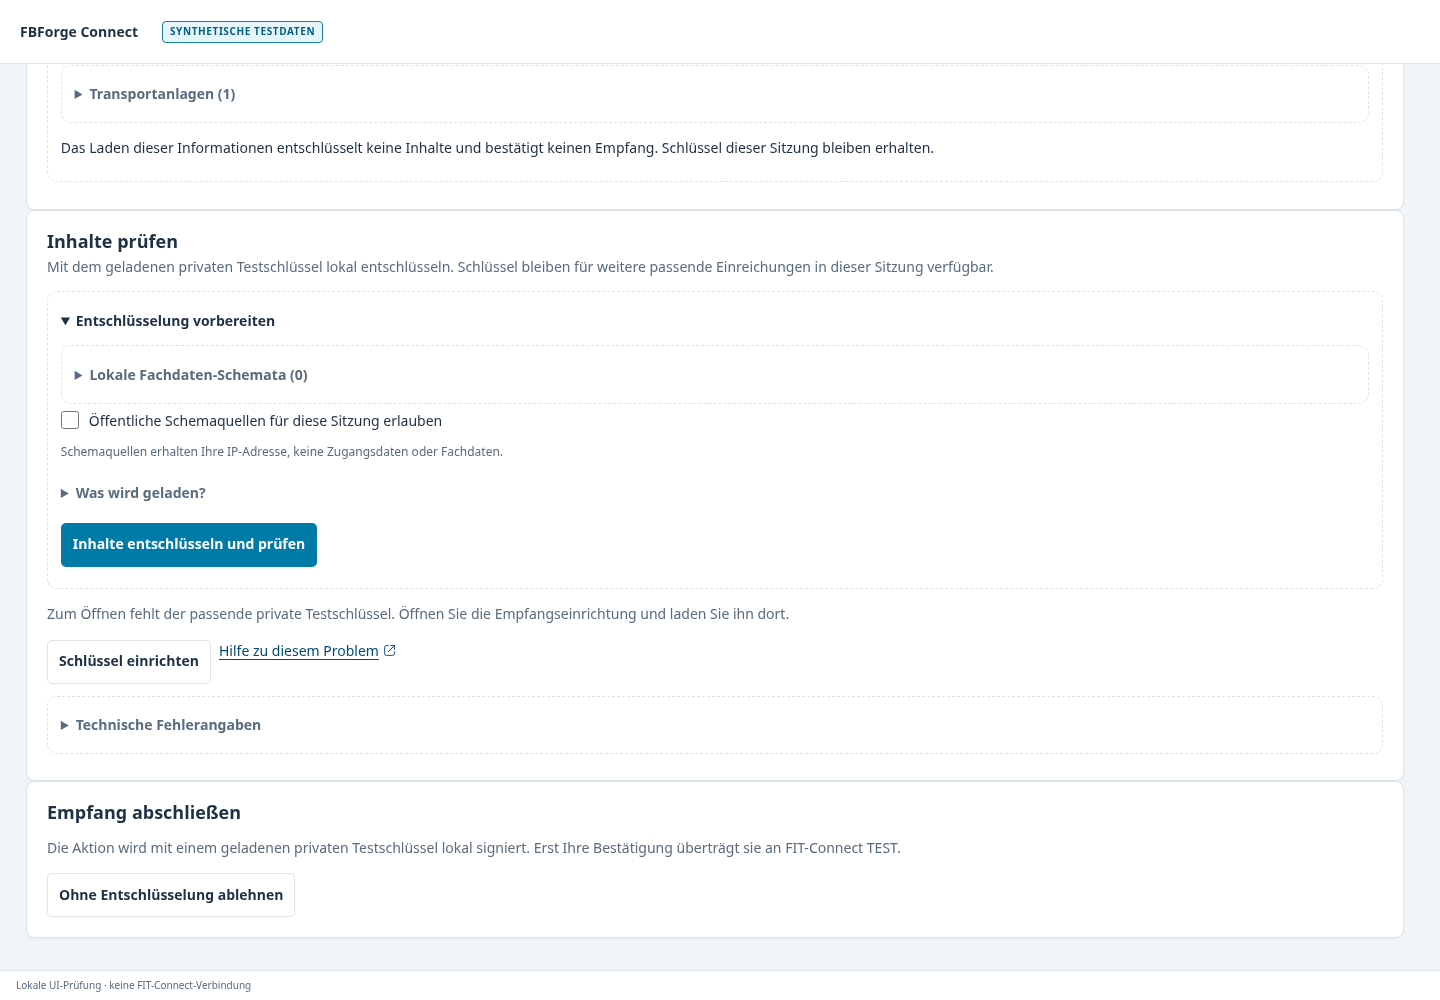
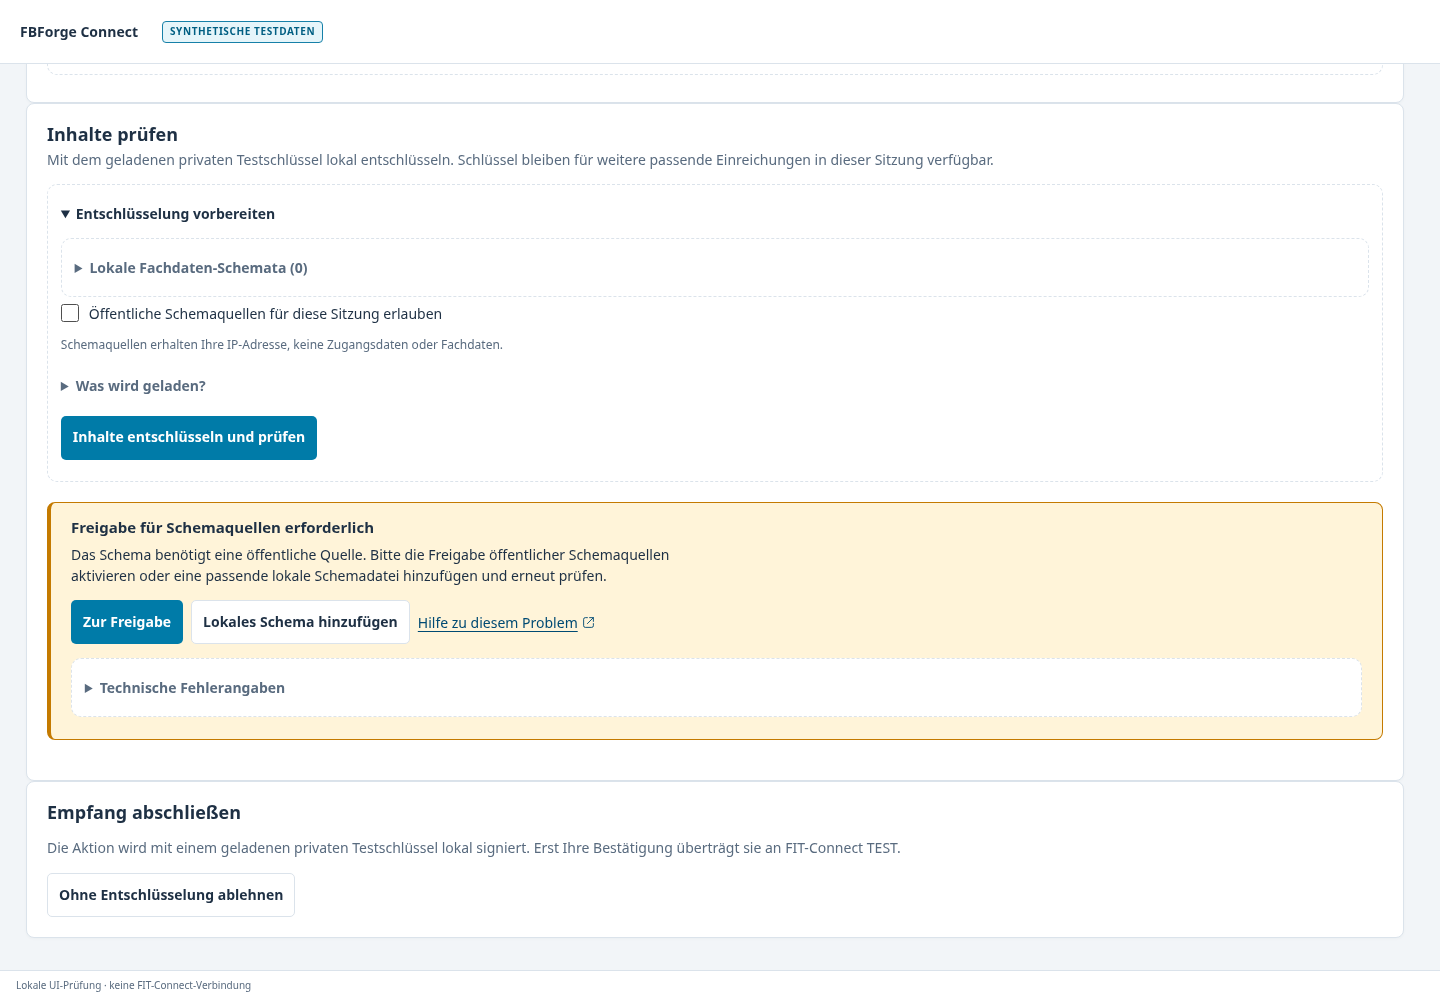
chore: prepare 0.2.0

Changed region(s): [[0.0312, 0.31, 0.9688, 0.744], [0.0312, 0.093, 0.6875, 0.279]]

diff --git a/docs/guide/topics.js b/docs/guide/topics.js
@@ -27,6 +27,13 @@ export const helpTopics = [
     image: 'profiles',
     caption:
       'Verbindungsdialog für den TEST-Zugang und die optionale Profilspeicherung. Zugangsdaten werden in der Anleitung nicht gezeigt.',
+    illustrations: [
+      {
+        image: 'connection-identity',
+        caption:
+          'Die aktive Verbindung zeigt API und Client-ID. Das Bild enthält ausschließlich fiktive Kennungen.',
+      },
+    ],
     intro:
       'Ein Profil bündelt einen TEST-Zugang und seine API-Version. Gespeicherte Profile ersparen die erneute Eingabe nach einem Neustart.',
     steps: [
@@ -34,6 +41,7 @@ export const helpTopics = [
       'Für wiederkehrende Tests aktivieren Sie das Speichern und vergeben Sie einen verständlichen Namen, zum Beispiel „Musterfachverfahren v3“.',
       'Prüfen Sie vor dem Verbinden, ob Zugang und API-Version zu Ihrem Test passen. Die Berechtigungen Ihres Zugangs bestimmen die verfügbaren Funktionen.',
       'Unter den gespeicherten Profilen können Sie einen Zugang wieder öffnen, umbenennen, aktualisieren oder entfernen.',
+      'Unter „Verbunden“ sehen Sie die aktive Client-ID und können sie kopieren. Auch gespeicherte Profile zeigen ihre Client-ID, API-Version und Schlüsselanzahl. Das Client-Secret wird nicht angezeigt.',
       'Speichern Sie Schlüsseländerungen im Profil und beachten Sie Hinweise auf ausstehende Sicherungen. Bewahren Sie zusätzlich eine eigene sichere Schlüsselsicherung auf.',
     ],
     notes: [
@@ -162,7 +170,7 @@ export const helpTopics = [
       'Die Vorschau zeigt unterstützte Formate lokal. Die Originaldatei bleibt unverändert als Download verfügbar.',
     steps: [
       'Wählen Sie bei einer PDF, PNG-, JPEG-, JSON-, XML- oder Textanlage „Ansehen“.',
-      'Bei PDFs wechseln Sie mit „Vorherige Seite“ und „Nächste Seite“. Unter „Seitentext lesen“ ist auslesbarer PDF-Text zugänglich. Für gescannte Seiten gibt es keine Texterkennung.',
+      'Bei PDFs bleibt die Seitensteuerung unten erreichbar. „Vorherige Seite“ und „Nächste Seite“ beginnen jeweils am Anfang der gewählten Seite. Unter „Seitentext lesen“ ist auslesbarer PDF-Text zugänglich. Für gescannte Seiten gibt es keine Texterkennung.',
       'Schließen Sie die Vorschau per Schaltfläche oder Escape. Der Fokus kehrt zur auslösenden Schaltfläche zurück.',
       'Wenn eine Datei nicht dargestellt werden kann, laden Sie das Original herunter. Öffnen Sie externe Programme nur bewusst und entsprechend Ihrer lokalen Sicherheitsregeln.',
     ],
@@ -275,12 +283,15 @@ export const helpTopics = [
     steps: [
       'Verbinden Sie ein gespeichertes Fachverfahren-Profil mit API v3 und öffnen Sie „Destinations“.',
       'Laden Sie eine eigene Destination oder bereiten Sie die Anlage einer neuen Test-Destination vor.',
+      '„Ansehen“ öffnet die Destination-Details. „Bearbeiten“ führt direkt in die Bearbeitung. Zurück gelangen Sie über „Zur Destination-Übersicht“.',
+      'Für gemeinsame Änderungen wählen Sie bis zu zehn Destinations und anschließend „Destinations gemeinsam bearbeiten“. Die Auswahl bleibt beim Ansehen einzelner Details erhalten.',
       'Für verschlüsselte Nachrichten erzeugen Sie lokale Testschlüssel beziehungsweise wählen Sie ein erzeugtes Schlüsselpaket. Die Schlüssel müssen vor einer Registrierung sicher im Profil gespeichert sein.',
       'Prüfen Sie Typ, Bezeichnung, Leistungen und Schemainformationen. Bereiten Sie die Änderung vor und lesen Sie die Zusammenfassung, bevor Sie sie bestätigen.',
       'Übernehmen Sie die eigenen Schlüssel anschließend für den Empfang und senden Sie einen kleinen fiktiven Testantrag an die neue Destination.',
       'Bei einem Schlüsselwechsel nutzen Sie den vorgesehenen Rotationsablauf. Entfernen Sie alte Schlüssel erst, wenn keine entsprechenden Nachrichten mehr entschlüsselt werden müssen.',
     ],
     notes: [
+      'Bei erkannten Leserechten werden keine Auswahl- oder Bearbeitungsaktionen angeboten. Änderungen erfordern die Berechtigung manage-destinations. Unbekannte Rechte werden erst beim Aufruf geprüft. Der Server entscheidet über jede Änderung.',
       'Eine Destination kann existieren, obwohl der Bestätigungsschritt unterbrochen wurde. Bei ungewissem Ausgang zuerst abgleichen, statt eine weitere Destination anzulegen.',
       'Vorbereitungen und Bestätigungen gelten nur kurz und für genau die gezeigte Konfiguration.',
       'Aufräumaktionen verändern TEST-Ressourcen. Prüfen Sie Auswahl und Folgen. Das Leeren der lokalen Vorgangsablage ist davon unabhängig.',
@@ -331,11 +342,13 @@ export const helpTopics = [
     title: 'Probleme verstehen und beheben',
     section: 'Diagnose',
     image: 'problems',
-    caption: 'Der Empfang zeigt fehlende Schlüssel und Prüfhinweise direkt am Antrag.',
+    caption: 'Fehlende Schemafreigabe mit direkten Aktionen und aufklappbaren technischen Fehlerangaben.',
     intro:
       'Fehlermeldungen erklären den nächsten sinnvollen Schritt. Wiederholen Sie einen Schreibvorgang nicht unüberlegt.',
     steps: [
-      '„Key missing“: Laden Sie an der ausgewählten Destination einen passenden privaten Entschlüsselungsschlüssel. Ein öffentlicher JWK allein reicht nicht.',
+      '„Testschlüssel fehlt“: Wählen Sie „Schlüssel einrichten“ und laden Sie einen passenden privaten Entschlüsselungsschlüssel. Ein öffentlicher JWK allein reicht nicht.',
+      '„Freigabe für Schemaquellen erforderlich“: „Zur Freigabe“ führt zur Checkbox. Aktivieren Sie diese bewusst und prüfen Sie erneut. Alternativ öffnet „Lokales Schema hinzufügen“ die lokale Dateiauswahl. Die Anwendung erteilt keine Freigabe automatisch.',
+      'Unter „Technische Fehlerangaben“ finden Sie API-Version und kopierbaren Fehlercode.',
       'Schlüssel abgewiesen: Vergleichen Sie Destination, Verwendungszweck und aktuelle Schlüsselregistrierung. Alte Nachrichten können einen früheren privaten Schlüssel benötigen.',
       'Schema nicht verfügbar: Prüfen Sie die Schema-URI in den Metadaten. Erlauben Sie bei Bedarf öffentliche Quellen oder laden Sie ein lokales Schema mit passender absoluter $id.',
       'Zugriff verweigert: Prüfen Sie Client-Rolle, API-Version und Zugehörigkeit der Destination. Eine fremde Destination wird durch ihre ID nicht zu Ihrer eigenen.',

diff --git a/RELEASE_NOTES.md b/RELEASE_NOTES.md
@@ -1,5 +1,14 @@
 # Versionshinweise
 
+## 0.2.0 (in Vorbereitung)
+
+- Geführte Testaufgaben und einfachere Abläufe beim Senden, Empfangen und Antworten.
+- Lesende Formularansicht mit Anlagen und zusammenhängenden Vorgängen.
+- Client-ID in aktiven Verbindungen und gespeicherten Profilen.
+- Sichtbare Destination-Details, gemeinsame Bearbeitung und erreichbare PDF-Seitensteuerung.
+- Verständliche Schemahinweise mit direkten Aktionen. Beispieldaten werden vor dem Übernehmen geprüft.
+- Zentral gepflegte Web-Anleitung mit aktuellen Bildern und Beispielen.
+
 ## 0.1.0-alpha.1
 
 Erste Alpha für Windows x64 und FIT-Connect TEST.

diff --git a/README.md b/README.md
@@ -2,7 +2,7 @@
 
 <img src="frontend/src/assets/test-client.png" alt="" width="80" height="80">
 
-Desktop-Testclient für FIT-Connect. Für Entwickler, Integratoren und Mitarbeitende der öffentlichen Verwaltung.
+Desktop-Testclient für FIT-Connect. Für Entwickler, Integratoren und Mitarbeiter der öffentlichen Verwaltung.
 
 - Einreichungen und Antworten über API v2/v3 senden, empfangen und prüfen.
 - JSON/XML lesen, Anlagen ansehen und Vorgänge lokal aufbewahren.

diff --git a/ROADMAP.md b/ROADMAP.md
@@ -1,6 +1,6 @@
 # Roadmap
 
-**0.1.x:** Fehlerbehebungen für die veröffentlichte Windows-Alpha auf `develop`.
+**0.1.1:** Fehlerbehebungen an Destination-Verwaltung und PDF-Vorschau auf `release/0.1.1`.
 
 **0.2.0:** Bestehende Abläufe vereinfachen auf `release/0.2.0`.
 
